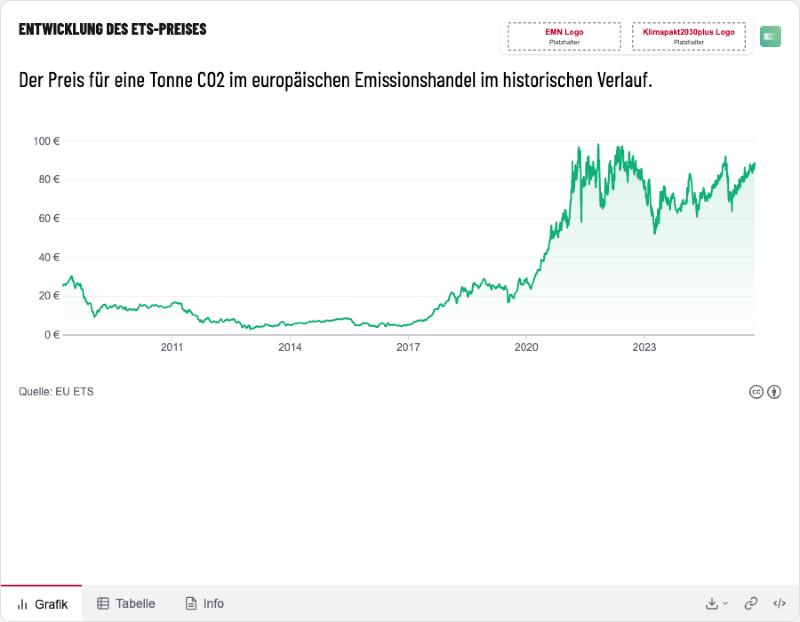
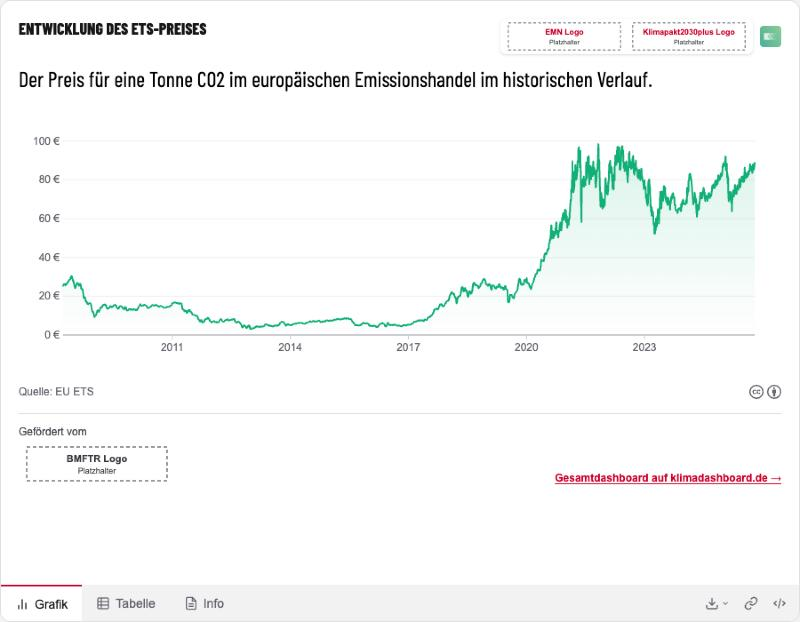
feat(embed): optional skin footer for funding notices and full-dashboard link
Skins can define footer.logos (with caption, e.g. "Gefördert vom") and
footer.link. Nürnberg skin gets a placeholder BMFTR logo and a link to the
planned klimadashboard.de/metropolregion-nuernberg. Docs describe
logos-only skins (no font/colour overrides).

Changed region(s): [[0.6875, 0.7637, 0.9688, 0.7942], [0.0312, 0.672, 0.1562, 0.7637]]

diff --git a/src/lib/components/charts/Card.svelte b/src/lib/components/charts/Card.svelte
@@ -557,12 +557,7 @@
 					<div class="flex items-center gap-3 bg-white rounded-md px-2 py-1 shadow-sm">
 						{#each skin.logos as logo}
 							{#if logo.href}
-								<a
-									href={logo.href}
-									target="_blank"
-									rel="noopener"
-									on:click={(e) => e.stopPropagation()}
-								>
+								<a href={logo.href} target="_blank" rel="noopener" on:click={(e) => e.stopPropagation()}>
 									<img src={logo.src} alt={logo.alt} class="h-6 sm:h-8 w-auto" />
 								</a>
 							{:else}
@@ -731,6 +726,44 @@
 					{/if}
 				</div>
 			</div>
+
+			<!-- Skin footer (embeds only): funding notices + link to the full dashboard -->
+			{#if skin?.footer}
+				<div
+					class="mt-4 pt-3 border-t border-gray-200 dark:border-gray-800 flex flex-wrap items-end justify-between gap-3 text-xs text-gray-600 dark:text-gray-300"
+					class:opacity-0={showSkeleton}
+				>
+					{#if skin.footer.logos?.length}
+						<div class="flex flex-wrap items-end gap-4">
+							{#each skin.footer.logos as logo}
+								<figure class="flex flex-col gap-1">
+									{#if logo.caption}<figcaption>{logo.caption}</figcaption>{/if}
+									<div class="bg-white rounded px-2 py-1">
+										{#if logo.href}
+											<a href={logo.href} target="_blank" rel="noopener" on:click={(e) => e.stopPropagation()}>
+												<img src={logo.src} alt={logo.alt} class="h-10 w-auto" />
+											</a>
+										{:else}
+											<img src={logo.src} alt={logo.alt} class="h-10 w-auto" />
+										{/if}
+									</div>
+								</figure>
+							{/each}
+						</div>
+					{/if}
+					{#if skin.footer.link}
+						<a
+							href={skin.footer.link.href}
+							target="_blank"
+							rel="noopener"
+							class="font-semibold underline underline-offset-2 text-[var(--kd-accent,#28A889)] dark:text-[var(--kd-accent-dark,#28A889)]"
+							on:click={(e) => e.stopPropagation()}
+						>
+							{skin.footer.link.label} →
+						</a>
+					{/if}
+				</div>
+			{/if}
 
 			<!-- Map button -->
 			{#if mapLayerId}

diff --git a/src/lib/skins/metropolregion-nuernberg.ts b/src/lib/skins/metropolregion-nuernberg.ts
@@ -34,7 +34,23 @@ const skin: Skin = {
 			href: 'https://www.klimapakt2030plus.de'
 		}
 	],
-	attribution: 'compact'
+	attribution: 'compact',
+	// Offer p.3: funding notice + link to the full dashboard on klimadashboard.de
+	footer: {
+		logos: [
+			{
+				// PLACEHOLDER file — replace with the official BMFTR "Gefördert vom" logo
+				src: '/skins/metropolregion-nuernberg/logo-bmftr.svg',
+				alt: 'Bundesministerium für Forschung, Technologie und Raumfahrt',
+				caption: 'Gefördert vom'
+			}
+		],
+		link: {
+			// Planned URL of the full dashboard (offer p.3) — not live yet
+			href: 'https://klimadashboard.de/metropolregion-nuernberg',
+			label: 'Gesamtdashboard auf klimadashboard.de'
+		}
+	}
 };
 
 export default skin;

diff --git a/src/lib/skins/types.ts b/src/lib/skins/types.ts
@@ -3,6 +3,8 @@ export interface SkinLogo {
 	src: string;
 	alt: string;
 	href?: string;
+	/** Text above the logo, e.g. "Gefördert vom" for funding notices */
+	caption?: string;
 }
 
 export interface Skin {
@@ -28,4 +30,9 @@ export interface Skin {
 	logos?: SkinLogo[];
 	/** How the Klimadashboard credit is shown next to skin logos (default 'compact') */
 	attribution?: 'compact' | 'full';
+	/** Optional strip at the bottom of the card content: funding logos and a link */
+	footer?: {
+		logos?: SkinLogo[];
+		link?: { href: string; label: string };
+	};
 }

diff --git a/docs/embed-skins.md b/docs/embed-skins.md
@@ -1,7 +1,8 @@
 # Embed skins
 
 A **skin** changes how an embedded chart looks in a partner's website — typefaces,
-interface accent colors and the logo(s) in the top-right corner of the chart card.
+interface accent colors, the logo(s) in the top-right corner of the chart card and an
+optional footer (funding notices, link to the full dashboard).
 Data, layout, interactions, texts and chart-series colors stay the same.
 
 Skins only apply on embed routes (`/embed/*`). On klimadashboard.* itself they are ignored.
@@ -55,7 +56,15 @@ CMS plugin. Ids are permanent; a skin may be visually updated without changing i
 | `colors.accent` | interface accent: active tab marker and the Klimadashboard wordmark |
 | `colors.accentDark` | the same for dark mode (must reach 4.5:1 on `gray-900`) |
 | `logos[]` | logos shown top-right (`src`, `alt`, optional `href`; rendered 24px high on phones, 32px from `sm`). They are placed on a white plate, so logos that must sit on white (as most CDs require) stay correct in dark mode |
+| `footer.logos[]` | logos at the bottom of the card content, each with an optional `caption` above it (e.g. "Gefördert vom") |
+| `footer.link` | `{ href, label }` — e.g. a link to the partner's full dashboard on klimadashboard.de |
 | `attribution` | `'compact'` (default when a skin has logos) keeps a small "Klimadashboard" link next to the partner logos; `'full'` keeps the default wordmark + icon |
+
+Every property is optional. A **logos-only skin** (just `logos` and/or `footer`, no `fonts` or
+`colors`) keeps the Klimadashboard fonts and colours and only adds partner logos. This is the
+intended model for partner pages on klimadashboard.de itself (e.g. the planned
+`/metropolregion-nuernberg` dashboard). Skins are currently only *applied* on `/embed/*`;
+using them on regular pages is a separate step.
 
 Not changed by skins (on purpose): chart data-series colors, layout, chart primitives.
 See "Data-series colors" below.
@@ -97,7 +106,8 @@ tender documents.
 | Headline font | Barlow Condensed, caps (self-hosted, DIN-like) — **placeholder** | DIN 1451 Engschrift LT, caps | webfont licence + `woff2` for DIN 1451 Engschrift, or OK to keep the placeholder |
 | Accent | EMN-Rot `#d40032` (5.5:1 on white); dark mode Klimapakt-Grün `#94c11c` (8.4:1 on gray-900) | EMN-Rot, EMN-Grau, Klimapakt ramp `#94c11c → #d40032` | — |
 | Logos | dashed **placeholder** SVGs in `static/skins/metropolregion-nuernberg/` | EMN logo + Klimapakt2030plus project logo, always together, on white | official SVGs of both logos (colour versions) |
-| Förderhinweis | not shown in embeds | BMFTR logo "Gefördert vom" required in the tender | BMFTR logo SVG + decision where it goes (card footer vs. TYPO3 page) |
+| Förderhinweis | card footer: "Gefördert vom" + dashed **placeholder** logo | BMFTR logo "Gefördert vom" required in the tender | official BMFTR logo SVG (and any further funder/partner logos) |
+| Full-dashboard link | card footer → `klimadashboard.de/metropolregion-nuernberg` | offer p.3 | URL is not live yet — confirm path |
 
 Screenshots: `docs/embed-skins-screenshots/` (`default-light`, `nuernberg-light`,
 `nuernberg-dark`, `nuernberg-mobile`).
